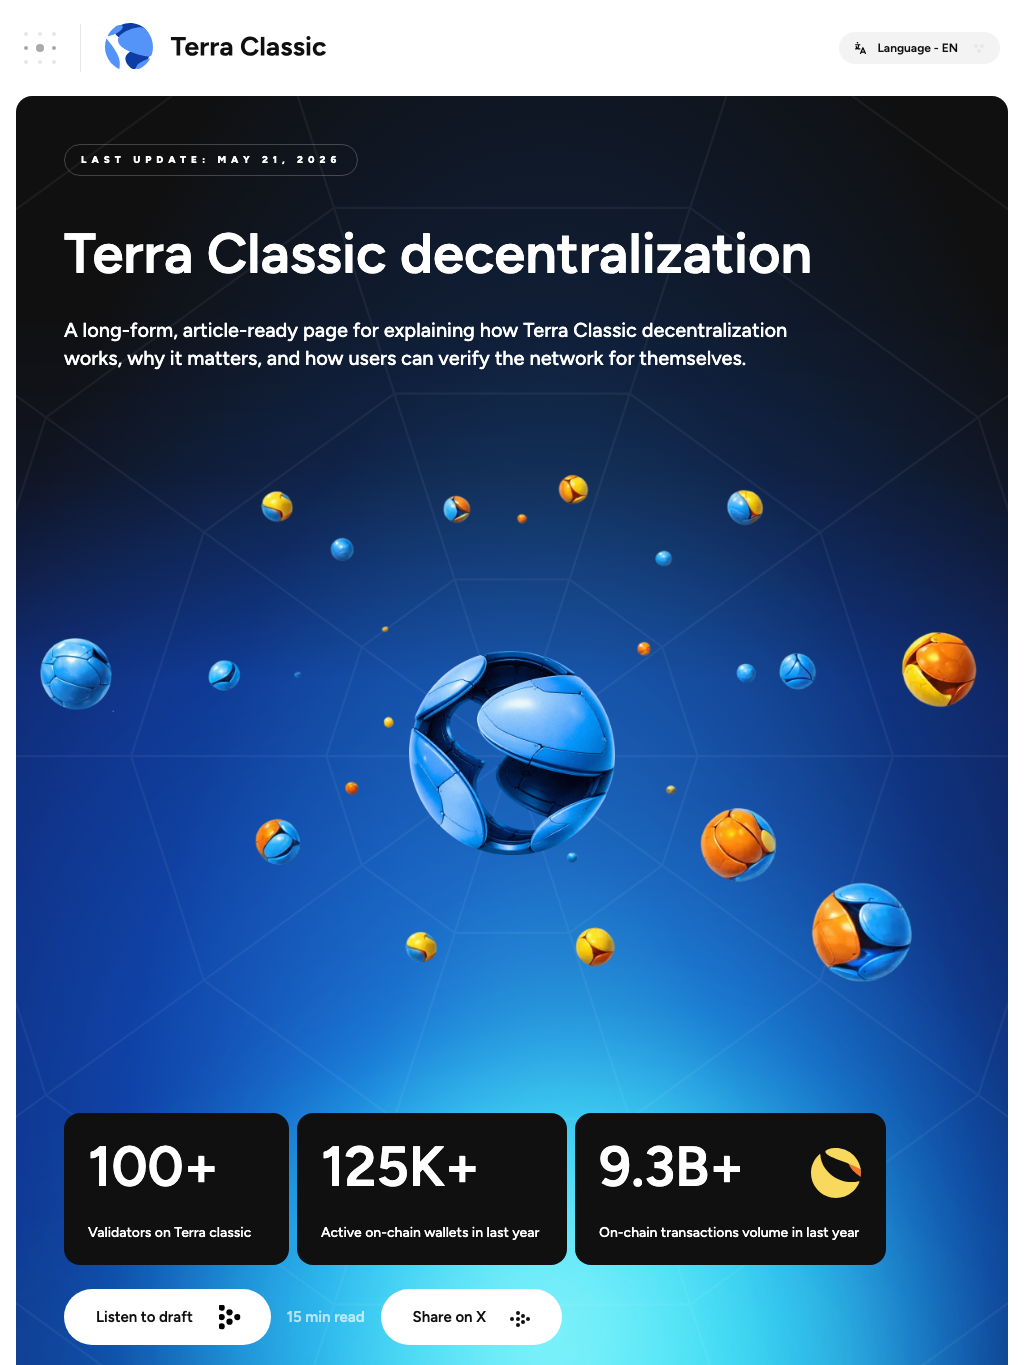
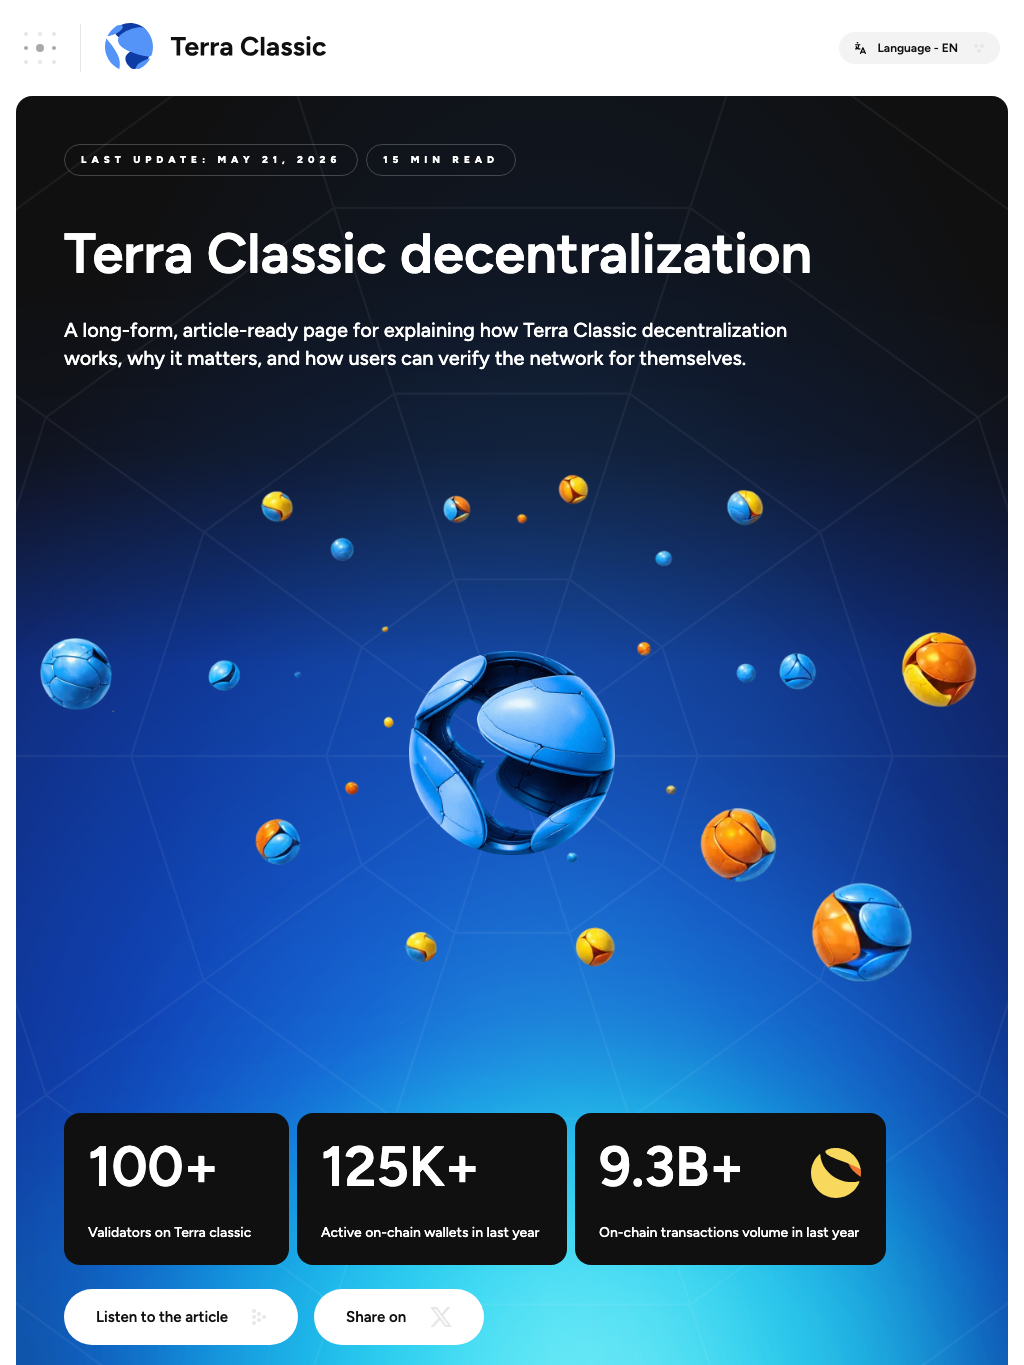
Fixes to glow animation and decentralization subpage

diff --git a/src/styles/global.css b/src/styles/global.css
@@ -538,6 +538,12 @@ h1 { margin: 0; font-size: var(--tc-type-h1-size); line-height: var(--tc-type-h1
 .pill-button:focus-visible .button-arrow-icon__default { opacity: 0; }
 .pill-button:hover .button-arrow-icon__hover,
 .pill-button:focus-visible .button-arrow-icon__hover { opacity: 1; }
+.share-on-x-button.pill-button { min-width: 172px; border: 0; background: var(--color-black); color: var(--color-white); cursor: pointer; white-space: nowrap; }
+.share-on-x-button.pill-button:hover,
+.share-on-x-button.pill-button:focus-visible { background: var(--color-grey-50); color: var(--color-black); }
+.share-on-x-button .article-action-icon::before { background: var(--color-white); }
+.share-on-x-button:hover .article-action-icon::before,
+.share-on-x-button:focus-visible .article-action-icon::before { background: var(--color-black); }
 
 .protocols { display: grid; gap: 8px; margin-top: 8px; }
 .protocol-panel { width: 100%; height: 95vh; position: relative; overflow: hidden; border-radius: var(--radius-card); color: var(--color-white); padding: var(--tc-padding-immersive-panel); background-color: var(--color-black); display: grid; grid-template-rows: auto minmax(0, 1fr) auto; row-gap: 40px; }
@@ -723,6 +729,24 @@ h1 { margin: 0; font-size: var(--tc-type-h1-size); line-height: var(--tc-type-h1
   100% { border-radius: 38% 62% 60% 40% / 62% 38% 64% 36%; filter: blur(72px); transform: translate3d(24px, -16px, 0) scale(1); opacity: .5; }
 }
 
+@keyframes stats-glow-v2-core {
+  0% { border-radius: 62% 38% 52% 48% / 40% 60% 38% 62%; filter: blur(66px); transform: translate3d(118px, 42px, 0) scale(.86); opacity: .5; }
+  42% { border-radius: 34% 66% 42% 58% / 64% 34% 66% 36%; filter: blur(36px); transform: translate3d(-156px, -64px, 0) scale(1.22); opacity: 1; }
+  100% { border-radius: 58% 42% 66% 34% / 44% 62% 38% 56%; filter: blur(76px); transform: translate3d(42px, -16px, 0) scale(.98); opacity: .64; }
+}
+
+@keyframes stats-glow-v2-source {
+  0% { border-radius: 48% 52% 58% 42% / 52% 46% 54% 48%; filter: blur(70px); transform: translate3d(86px, 32px, 0) scale(.84); opacity: .26; }
+  48% { border-radius: 66% 34% 40% 60% / 38% 62% 36% 64%; filter: blur(42px); transform: translate3d(-118px, -60px, 0) scale(1.22); opacity: .9; }
+  100% { border-radius: 38% 62% 60% 40% / 62% 38% 64% 36%; filter: blur(66px); transform: translate3d(32px, -16px, 0) scale(1); opacity: .48; }
+}
+
+@keyframes stats-glow-v2-floor-wash {
+  0% { transform: translate3d(208px, 40px, 0) rotate(-8deg) scale(.9); opacity: .14; }
+  46% { transform: translate3d(-206px, -22px, 0) rotate(-3deg) scale(1.18); opacity: .46; }
+  100% { transform: translate3d(42px, 28px, 0) rotate(-6deg) scale(1.02); opacity: .24; }
+}
+
 .native-assets { height: 2164px; margin-top: 8px; padding: var(--tc-padding-section-close); display: flex; flex-direction: column; gap: 64px; }
 .native-assets__header { width: 864px; height: 216px; display: flex; flex-direction: column; gap: 64px; }
 .native-assets__header p { width: 864px; margin: 0; font-size: var(--tc-type-h4-size); line-height: var(--tc-type-h4-line-height); font-weight: var(--tc-type-h4-weight); }
@@ -792,18 +816,18 @@ h1 { margin: 0; font-size: var(--tc-type-h1-size); line-height: var(--tc-type-h1
   linear-gradient(180deg, #050a20 0%, #07133c 48%, #0d4fb9 100%); }
 .strength-visual__orb { position: relative; z-index: 1; display: block; width: 292px; height: auto; max-width: none; }
 
-.stats-panel { --stats-copy-block-height: 168px; --stats-planets-top: calc(var(--tc-padding-immersive-panel) + var(--stats-copy-block-height) + 40px); --stats-small-planets-height: 636px; --stats-big-planet-width: 270px; --stats-big-planet-height: 268px; --stats-web-center-y-offset: 11px; width: 100%; height: 95vh; margin-top: 8px; position: relative; overflow: hidden; border-radius: var(--radius-card); background: linear-gradient(to bottom, rgba(16,16,16,0) calc(100% - 3px), rgba(84,245,255,.3) 100%), radial-gradient(ellipse at 54% 100%, rgba(84,245,255,.68) 0%, rgba(42,156,255,.42) 30%, rgba(13,84,205,.2) 58%, rgba(16,16,16,0) 84%), var(--color-black); box-shadow: 0 1px 0 rgba(84,245,255,.24); color: var(--color-white); padding: var(--tc-padding-immersive-panel); display: grid; grid-template-rows: auto minmax(0, 1fr) auto; row-gap: 40px; }
+.stats-panel { --stats-copy-block-height: 168px; --stats-planets-top: calc(var(--tc-padding-immersive-panel) + var(--stats-copy-block-height) + 40px); --stats-small-planets-height: 636px; --stats-big-planet-width: 270px; --stats-big-planet-height: 268px; --stats-web-center-y-offset: 11px; width: 100%; height: 95vh; margin-top: 8px; position: relative; overflow: hidden; border-radius: var(--radius-card); background: linear-gradient(to bottom, rgba(16,16,16,0) calc(100% - 3px), rgba(84,245,255,.16) 100%), radial-gradient(ellipse at 54% 100%, rgba(84,245,255,.36) 0%, rgba(42,156,255,.22) 32%, rgba(13,84,205,.1) 60%, rgba(16,16,16,0) 84%), var(--color-black); box-shadow: 0 1px 0 rgba(84,245,255,.16); color: var(--color-white); padding: var(--tc-padding-immersive-panel); display: grid; grid-template-rows: auto minmax(0, 1fr) auto; row-gap: 40px; }
 .stats-glow { position: absolute; inset: -120px -220px -220px; z-index: 1; pointer-events: none; mix-blend-mode: screen; filter: saturate(1.16); transform: translateZ(0); mask-image: linear-gradient(to bottom, transparent 0%, transparent 18%, rgba(0,0,0,.26) 28%, #000 42%); -webkit-mask-image: linear-gradient(to bottom, transparent 0%, transparent 18%, rgba(0,0,0,.26) 28%, #000 42%); }
 .stats-glow span { position: absolute; display: block; border-radius: 999px; will-change: transform, opacity, border-radius, filter; }
 .stats-glow span:nth-child(1) { left: -70px; right: -70px; top: 100px; bottom: 20px; background: radial-gradient(ellipse at 54% 58%, rgba(14,60,165,.72) 0%, rgba(14,50,146,.62) 25%, rgba(11,36,118,.5) 52%, rgba(8,24,82,.24) 73%, rgba(5,9,32,0) 91%); filter: blur(82px); opacity: .86; animation: stats-blue-field 23s ease-in-out infinite alternate; }
 .stats-glow span:nth-child(2) { left: 470px; right: 260px; bottom: 42px; height: 650px; background: radial-gradient(ellipse at 52% 70%, rgba(84,245,255,.95) 0%, rgba(84,245,255,.7) 22%, rgba(42,156,255,.48) 45%, rgba(13,84,205,.22) 68%, rgba(13,84,205,0) 88%); filter: blur(62px); opacity: .9; animation: stats-cyan-core 15s var(--tc-ease-emphasized) infinite alternate; }
 .stats-glow span:nth-child(3) { left: 560px; right: 370px; bottom: -20px; height: 430px; background: radial-gradient(ellipse at 52% 46%, rgba(168,252,255,.78) 0%, rgba(84,245,255,.52) 34%, rgba(84,245,255,0) 76%); filter: blur(70px); opacity: .7; animation: stats-cyan-source 19s ease-in-out infinite alternate; }
 .stats-glow span:nth-child(4) { display: none; }
-.stats-glow--v2 { filter: saturate(1.28) contrast(1.03); mask-image: linear-gradient(to bottom, transparent 0%, transparent 20%, rgba(0,0,0,.22) 30%, #000 43%); -webkit-mask-image: linear-gradient(to bottom, transparent 0%, transparent 20%, rgba(0,0,0,.22) 30%, #000 43%); }
-.stats-glow--v2 span:nth-child(1) { left: -110px; right: -110px; top: 96px; bottom: -38px; background: radial-gradient(ellipse at 52% 62%, rgba(15,72,190,.8) 0%, rgba(12,58,166,.68) 28%, rgba(10,39,128,.5) 56%, rgba(8,24,82,.22) 76%, rgba(5,9,32,0) 92%); filter: blur(90px); opacity: .82; animation: bottom-glow-v2-field 28s ease-in-out -7.4s infinite alternate; }
-.stats-glow--v2 span:nth-child(2) { left: 380px; right: 180px; bottom: -16px; height: 740px; background: radial-gradient(ellipse at 52% 72%, rgba(92,252,255,.98) 0%, rgba(84,245,255,.76) 22%, rgba(42,156,255,.5) 46%, rgba(13,84,205,.22) 70%, rgba(13,84,205,0) 90%); filter: blur(56px); opacity: .86; animation: bottom-glow-v2-core 19s var(--tc-ease-emphasized) -10.2s infinite alternate; }
-.stats-glow--v2 span:nth-child(3) { left: 500px; right: 300px; bottom: -72px; height: 520px; background: radial-gradient(ellipse at 52% 42%, rgba(178,253,255,.82) 0%, rgba(84,245,255,.54) 34%, rgba(84,245,255,0) 78%); filter: blur(64px); opacity: .62; animation: bottom-glow-v2-source 25s ease-in-out -4.8s infinite alternate; }
-.stats-glow--v2 span:nth-child(4) { display: block; left: 92px; right: 52px; bottom: -42px; height: 410px; border-radius: 45% 55% 54% 46% / 44% 54% 46% 56%; background: linear-gradient(98deg, rgba(84,245,255,0) 0%, rgba(84,245,255,.16) 24%, rgba(84,245,255,.42) 48%, rgba(66,132,255,.2) 70%, rgba(10,24,84,0) 100%); filter: blur(70px); opacity: .34; transform: rotate(-5deg); animation: bottom-glow-v2-floor-wash 31s ease-in-out -13.2s infinite alternate; }
+.stats-glow--v2 { filter: saturate(1.38) contrast(1.05); mask-image: linear-gradient(to bottom, transparent 0%, transparent 18%, rgba(0,0,0,.2) 29%, #000 42%); -webkit-mask-image: linear-gradient(to bottom, transparent 0%, transparent 18%, rgba(0,0,0,.2) 29%, #000 42%); }
+.stats-glow--v2 span:nth-child(1) { left: -150px; right: -150px; top: 72px; bottom: -78px; background: radial-gradient(ellipse at 52% 62%, rgba(18,88,220,.86) 0%, rgba(13,70,190,.72) 27%, rgba(10,43,140,.48) 56%, rgba(8,24,82,.2) 76%, rgba(5,9,32,0) 92%); filter: blur(88px); opacity: .86; animation: bottom-glow-v2-field 28s ease-in-out -7.4s infinite alternate; }
+.stats-glow--v2 span:nth-child(2) { left: 300px; right: 120px; bottom: -88px; height: 840px; background: radial-gradient(ellipse at 52% 70%, rgba(108,255,255,1) 0%, rgba(84,245,255,.82) 20%, rgba(42,156,255,.54) 45%, rgba(13,84,205,.22) 70%, rgba(13,84,205,0) 90%); filter: blur(50px); opacity: .88; animation: stats-glow-v2-core 21s var(--tc-ease-emphasized) -10.2s infinite alternate; }
+.stats-glow--v2 span:nth-child(3) { left: 418px; right: 230px; bottom: -132px; height: 620px; background: radial-gradient(ellipse at 52% 42%, rgba(194,255,255,.88) 0%, rgba(84,245,255,.6) 34%, rgba(84,245,255,0) 78%); filter: blur(60px); opacity: .7; animation: stats-glow-v2-source 27s ease-in-out -4.8s infinite alternate; }
+.stats-glow--v2 span:nth-child(4) { display: block; left: 40px; right: 12px; bottom: -128px; height: 520px; border-radius: 45% 55% 54% 46% / 44% 54% 46% 56%; background: linear-gradient(98deg, rgba(84,245,255,0) 0%, rgba(84,245,255,.18) 22%, rgba(84,245,255,.48) 48%, rgba(66,132,255,.24) 72%, rgba(10,24,84,0) 100%); filter: blur(66px); opacity: .38; transform: rotate(-5deg); animation: stats-glow-v2-floor-wash 33s ease-in-out -13.2s infinite alternate; }
 .stats-decagon-pattern { position: absolute; inset: 0; z-index: 2; display: block; width: 100%; height: 100%; max-width: none; object-fit: cover; pointer-events: none; }
 .stats-small-planets { position: absolute; left: 50%; top: var(--stats-planets-top); z-index: 3; display: block; width: auto; height: var(--stats-small-planets-height); aspect-ratio: 1161 / 636; max-width: none; object-fit: contain; pointer-events: none; transform: translateX(-50.302%); }
 .stats-big-planet { position: absolute; left: 50%; top: calc(50% + var(--stats-web-center-y-offset)); z-index: 3; display: block; width: var(--stats-big-planet-width); height: var(--stats-big-planet-height); max-width: none; object-fit: contain; pointer-events: none; transform: translate(-50%, -50%); }
@@ -955,6 +979,10 @@ h1 { margin: 0; font-size: var(--tc-type-h1-size); line-height: var(--tc-type-h1
 .decentralization-hero { margin-top: 0; }
 .stats-panel.decentralization-stats-hero { --stats-copy-block-height: 288px; }
 .decentralization-stats-hero { min-height: 720px; }
+.decentralization-stats-hero .stats-glow--v2 span:nth-child(1) { top: 118px; bottom: -88px; }
+.decentralization-stats-hero .stats-glow--v2 span:nth-child(2) { bottom: -126px; height: 880px; }
+.decentralization-stats-hero .stats-glow--v2 span:nth-child(3) { bottom: -170px; height: 650px; }
+.decentralization-stats-hero .stats-glow--v2 span:nth-child(4) { bottom: -152px; height: 540px; }
 .decentralization-stats-hero__copy { display: flex; flex-direction: column; align-items: flex-start; }
 .decentralization-stats-hero__copy h1 { width: 100%; max-width: 100%; margin: 48px 0 0; text-wrap: balance; }
 .decentralization-stats-hero__copy p { max-width: 900px; margin-top: 32px; }
@@ -974,22 +1002,20 @@ h1 { margin: 0; font-size: var(--tc-type-h1-size); line-height: var(--tc-type-h1
 .decentralization-node--5 { left: 14%; bottom: 18%; }
 .decentralization-node--6 { right: 12%; bottom: 16%; }
 .decentralization-hero-actions { position: absolute; left: 0; top: 176px; display: flex; align-items: center; gap: 16px; }
-.article-action.pill-button { min-height: 56px; border: 0; background: var(--color-white); color: var(--color-black); cursor: pointer; justify-self: start; }
+.article-action.pill-button { min-height: 56px; border: 0; background: var(--color-white); color: var(--color-black); cursor: pointer; justify-self: start; white-space: nowrap; }
 .article-action--share.pill-button { justify-self: end; }
 .article-action.pill-button:hover,
 .article-action.pill-button:focus-visible,
 .article-action--active.pill-button { background: var(--color-black); color: var(--color-white); }
-.article-listen-icon { width: 22px; height: 25px; flex: 0 0 22px; }
-.article-listen-icon img { width: 25px; height: 22px; }
-.article-listen-icon .play-button-icon__default { filter: brightness(0) saturate(100%); }
-.article-listen-icon .play-button-icon__hover { filter: brightness(0) invert(1); }
-.article-action:hover .play-button-icon__default,
-.article-action:focus-visible .play-button-icon__default,
-.article-action--active .play-button-icon__default { opacity: 0; }
-.article-action:hover .play-button-icon__hover,
-.article-action:focus-visible .play-button-icon__hover,
-.article-action--active .play-button-icon__hover { opacity: 1; }
-.article-read-time { color: rgba(255,255,255,.64); }
+.article-action-icon { position: relative; display: block; flex: 0 0 auto; }
+.article-action-icon::before { content: ""; position: absolute; left: 50%; top: 50%; display: block; background: var(--color-grey-100); transform: translate(-50%, -50%); transition: background-color var(--tc-motion-fast) var(--tc-ease-standard); -webkit-mask-repeat: no-repeat; mask-repeat: no-repeat; -webkit-mask-position: center; mask-position: center; -webkit-mask-size: 100% 100%; mask-size: 100% 100%; }
+.article-listen-icon { width: 14px; height: 16px; }
+.article-listen-icon::before { width: 16px; height: 14px; transform: translate(-50%, -50%) rotate(-90deg); -webkit-mask-image: url("/assets/article-play-default.svg"); mask-image: url("/assets/article-play-default.svg"); }
+.article-share-icon { width: 22px; height: 20px; }
+.article-share-icon::before { width: 22px; height: 20px; -webkit-mask-image: url("/assets/article-x-default.svg"); mask-image: url("/assets/article-x-default.svg"); }
+.article-action:hover .article-action-icon::before,
+.article-action:focus-visible .article-action-icon::before,
+.article-action--active .article-action-icon::before { background: var(--color-white); }
 .article-body { max-width: 1040px; margin: 0 auto; padding: 80px 0 96px; }
 .article-lede { padding: 0 0 56px 160px; border-bottom: 1px solid var(--color-grey-100); }
 .article-lede p { margin: 0; }
@@ -1544,7 +1570,7 @@ h1 { margin: 0; font-size: var(--tc-type-h1-size); line-height: var(--tc-type-h1
   .protocol-glow--v2.protocol-glow--staking,
   .protocol-glow--v2.protocol-glow--swap,
   .protocol-glow--v2.protocol-glow--forex,
-  .stats-glow--v2 { filter: saturate(1.18) contrast(1.02); mask-image: none; -webkit-mask-image: none; }
+  .stats-glow--v2 { filter: saturate(1.28) contrast(1.03); mask-image: none; -webkit-mask-image: none; }
   .protocol-glow--v2 span:nth-child(1),
   .stats-glow--v2 span:nth-child(1) { left: 50%; right: auto; top: 272px; bottom: auto; width: clamp(620px, 168vw, 960px); height: clamp(620px, 154vw, 900px); margin-left: clamp(-520px, -86vw, -316px); filter: blur(82px); opacity: .82; animation: bottom-glow-v2-field 26s ease-in-out infinite alternate; }
   .protocol-glow--v2 span:nth-child(2),
@@ -1557,6 +1583,10 @@ h1 { margin: 0; font-size: var(--tc-type-h1-size); line-height: var(--tc-type-h1
   .stats-glow--v2 span:nth-child(2) { top: 410px; }
   .stats-glow--v2 span:nth-child(3) { top: 560px; }
   .stats-glow--v2 span:nth-child(4) { top: 500px; }
+  .stats-glow--v2 span:nth-child(1) { opacity: .84; }
+  .stats-glow--v2 span:nth-child(2) { filter: blur(48px); opacity: .92; animation-name: stats-glow-v2-core; animation-duration: 19s; }
+  .stats-glow--v2 span:nth-child(3) { filter: blur(58px); opacity: .68; animation-name: stats-glow-v2-source; animation-duration: 25s; }
+  .stats-glow--v2 span:nth-child(4) { height: clamp(220px, 62vw, 320px); filter: blur(56px); opacity: .34; animation-name: stats-glow-v2-floor-wash; animation-duration: 31s; }
   .protocol-glow--staking.protocol-glow--v2 span:nth-child(n) { animation-delay: -1.4s; }
   .protocol-glow--swap.protocol-glow--v2 span:nth-child(n) { animation-delay: -6.2s; }
   .protocol-glow--forex.protocol-glow--v2 span:nth-child(n) { animation-delay: -11.1s; }
@@ -1791,6 +1821,10 @@ h1 { margin: 0; font-size: var(--tc-type-h1-size); line-height: var(--tc-type-h1
 @media (max-width: 767px) {
   .stats-panel.decentralization-stats-hero { --stats-visual-gap: 72px; }
   .decentralization-stats-hero { min-height: 0; }
+  .decentralization-stats-hero .stats-glow--v2 span:nth-child(1) { top: 332px; bottom: auto; height: clamp(620px, 154vw, 900px); }
+  .decentralization-stats-hero .stats-glow--v2 span:nth-child(2) { top: 410px; bottom: auto; height: clamp(520px, 132vw, 780px); }
+  .decentralization-stats-hero .stats-glow--v2 span:nth-child(3) { top: 560px; bottom: auto; height: clamp(340px, 92vw, 560px); }
+  .decentralization-stats-hero .stats-glow--v2 span:nth-child(4) { top: 500px; bottom: auto; height: clamp(220px, 62vw, 320px); }
   .decentralization-stats-hero__copy h1 { margin-top: 24px; }
   .article-meta { gap: 6px; }
   .article-meta__badge { min-height: 28px; height: 28px; padding: 0 12px; }
@@ -1808,8 +1842,7 @@ h1 { margin: 0; font-size: var(--tc-type-h1-size); line-height: var(--tc-type-h1
   .decentralization-node--5 { left: 8%; bottom: 16%; }
   .decentralization-node--6 { right: 8%; bottom: 14%; }
   .decentralization-hero-actions { position: relative; left: auto; top: auto; width: 100%; display: grid; grid-template-columns: 1fr; gap: 8px; margin-top: 0; }
-  .article-action.pill-button { width: 100%; min-height: 48px; padding: 0 20px; }
-  .article-read-time { justify-self: center; }
+  .article-action.pill-button { width: 100%; min-height: 56px; padding: var(--tc-padding-pill-control); }
   .article-body { max-width: 100%; padding: 48px 24px 64px; }
   .article-lede { padding: 0 0 40px; }
   .article-section { grid-template-columns: 1fr; gap: 16px; padding: 40px 0; }

diff --git a/src/App.tsx b/src/App.tsx
@@ -141,6 +141,16 @@ function LinkButton({ href, children, dark = false }: { href: string; children: 
   );
 }
 
+function ShareOnXButton({ href }: { href: string }) {
+  const safeHref = isPlaceholderLink(href) ? "#" : href;
+  return (
+    <a className="share-on-x-button pill-button tc-type-link-big" href={safeHref} target={safeHref.startsWith("http") ? "_blank" : undefined} rel={safeHref.startsWith("http") ? "noopener noreferrer" : undefined}>
+      <span>Share on</span>
+      <span className="article-action-icon article-share-icon" aria-hidden="true" />
+    </a>
+  );
+}
+
 function CollapseControl({ collapsed = false }: { collapsed?: boolean }) {
   return (
     <span className={`collapse-control ${collapsed ? "collapse-control--collapsed" : "collapse-control--opened"}`} aria-hidden="true">
@@ -1021,7 +1031,7 @@ function EcosystemShare() {
         <h2 className="tc-type-h2" id="ecosystem-share-title">Help make Terra Classic easier to navigate.</h2>
         <p className="tc-type-h4">The ecosystem is stronger when accurate tools, wallets, builders, and infrastructure are easy to find. Share the directory, then use GitHub to suggest corrections when listings change.</p>
       </div>
-      <LinkButton href={shareHref} dark>Share on X</LinkButton>
+      <ShareOnXButton href={shareHref} />
     </section>
   );
 }
@@ -1070,12 +1080,9 @@ function ArticleListenControl({ label, text }: { label: string; text: string }) 
   };
 
   return (
-    <button className={`article-action article-action--listen pill-button tc-type-link-big ${speaking ? "article-action--active" : ""}`} type="button" onClick={handleClick}>
-      <span>{speaking ? "Stop audio" : label}</span>
-      <span className="play-button-icon article-listen-icon" aria-hidden="true">
-        <img className="play-button-icon__default" src={asset("what-video-dots.svg")} alt="" />
-        <img className="play-button-icon__hover" src={asset("what-video-dots.svg")} alt="" />
-      </span>
+    <button className={`article-action article-action--listen pill-button tc-type-link-big ${speaking ? "article-action--active" : ""}`} type="button" onClick={handleClick} aria-pressed={speaking}>
+      <span>{label}</span>
+      <span className="article-action-icon article-listen-icon" aria-hidden="true" />
     </button>
   );
 }
@@ -1152,6 +1159,7 @@ function DecentralizationArticle() {
         <div className="stats-copy decentralization-stats-hero__copy">
           <div className="article-meta">
             <span className="native-phase__badge article-meta__badge">LAST UPDATE: MAY 21, 2026</span>
+            <span className="native-phase__badge article-meta__badge">15 MIN READ</span>
           </div>
           <h1 className="tc-type-h1" id="decentralization-page-title">Terra Classic decentralization</h1>
           <p className="tc-type-h4">A long-form, article-ready page for explaining how Terra Classic decentralization works, why it matters, and how users can verify the network for themselves.</p>
@@ -1169,14 +1177,10 @@ function DecentralizationArticle() {
             ))}
           </dl>
           <div className="decentralization-hero-actions" aria-label="Article actions">
-            <ArticleListenControl label="Listen to draft" text={readText} />
-            <span className="article-read-time tc-type-link-big">15 min read</span>
+            <ArticleListenControl label="Listen to the article" text={readText} />
             <a className="article-action article-action--share pill-button tc-type-link-big" href="https://x.com/intent/tweet?text=Read%20about%20Terra%20Classic%20decentralization&url=https%3A%2F%2Fterra-classic.money%2Fdecentralization.html" target="_blank" rel="noopener noreferrer">
-              <span>Share on X</span>
-              <span className="button-arrow-icon" aria-hidden="true">
-                <img className="button-arrow-icon__default" src={asset("button-arrow-black.svg")} alt="" />
-                <img className="button-arrow-icon__hover" src={asset("button-arrow-white.svg")} alt="" />
-              </span>
+              <span>Share on</span>
+              <span className="article-action-icon article-share-icon" aria-hidden="true" />
             </a>
           </div>
         </div>
@@ -1269,7 +1273,7 @@ function DecentralizationShare() {
         <h2 className="tc-type-h2" id="decentralization-share-title">Share the decentralization story.</h2>
         <p className="tc-type-h4">Once the final article copy is ready, this section gives readers one clear action: help more people understand how Terra Classic is maintained, governed, and verified in public.</p>
       </div>
-      <LinkButton href={shareHref} dark>Share on X</LinkButton>
+      <ShareOnXButton href={shareHref} />
     </section>
   );
 }

diff --git a/docs/068 - Stats glow refinement - 2026-05-21.md b/docs/068 - Stats glow refinement - 2026-05-21.md
@@ -1,0 +1,47 @@
+# Stats glow refinement
+
+Created: 2026-05-21
+
+## Scope
+
+Refined the glow animation used by:
+
+- Home page "Efficiency driven by decentralization" stats section
+- Decentralization subpage hero
+
+The product section glow animation was left unchanged.
+
+## Finding
+
+Both affected sections already had animated glow layers and those layers were running, including while macOS `prefers-reduced-motion: reduce` was active. The issue was visual, not functional:
+
+- The stats panel had a strong static cyan floor glow baked into the panel background.
+- The animated glow layers sat behind the decagon grid and planet assets, so the motion was visually flattened.
+- The decentralization subpage hero reused the same stats glow but has a taller copy block, so the light needed lower positioning.
+- Mobile had a specificity conflict: the subpage-specific desktop glow offsets overrode the shared mobile glow sizing.
+
+## Implementation
+
+- Reduced the static cyan floor glow on `.stats-panel` so the animated glow layers carry more of the visible light.
+- Added stats-specific v2 keyframes for the cyan core, cyan source, and diagonal floor wash.
+- Increased opacity contrast and positional drift for the stats glow while preserving dark readability behind the copy.
+- Added desktop offsets for `.decentralization-stats-hero` so the brightest motion sits lower, around the visual/stat area.
+- Added explicit mobile overrides for `.decentralization-stats-hero .stats-glow--v2` to prevent desktop layer heights from leaking into mobile.
+
+## Validation
+
+- `npm run check` passed.
+- Browser QA at 1440 x 900:
+  - Home stats section: 4 glow layers present, animations running.
+  - Decentralization hero: 4 glow layers present, animations running.
+- Browser QA at 390 x 844:
+  - Home stats section: 4 glow layers present, animations running.
+  - Decentralization hero: 4 glow layers present, mobile sizing active, animations running.
+- Browser console: 0 errors.
+
+Screenshots captured during QA:
+
+- `/tmp/terra-stats-glow-home-desktop.png`
+- `/tmp/terra-stats-glow-subpage-desktop.png`
+- `/tmp/terra-stats-glow-home-mobile.png`
+- `/tmp/terra-stats-glow-subpage-mobile-fixed.png`

diff --git a/docs/067 - Decentralization subpage implementation - 2026-05-21.md b/docs/067 - Decentralization subpage implementation - 2026-05-21.md
@@ -83,3 +83,8 @@ The supplied lo-fi wireframe is treated as an information-architecture reference
 - Scoped the stats-planet image placement on the Decentralization hero so the decorative planets do not collide with the longer article headline/intro at intermediate breakpoints.
 - Tuned the Decentralization-only planet offset after visual QA so the asset sits closer to the copy without crossing into the text area.
 - Checked the corrected hero at `1455 x 1081`, `1096 x 1081`, and `759 x 1081`; the headline and paragraph remain clear of the planet layer.
+- Replaced the Decentralization hero Listen and Share buttons with the Figma-designed article button variants from node `1612:964`.
+- Added local Figma-derived mask assets for the article play and X icons so the implementation does not depend on expiring Figma asset URLs.
+- Corrected the dotted play icon orientation to face right and constrained both article icons to their Figma dimensions in default and hover states.
+- Moved `15 MIN READ` into the hero metadata row as a second `native-phase__badge` beside the last-update badge.
+- Replaced the two white-background bottom Share on X buttons on the Ecosystem and Decentralization pages with X-share pills using black default and gray hover states.